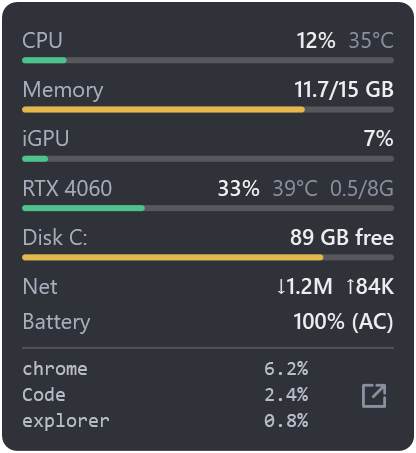
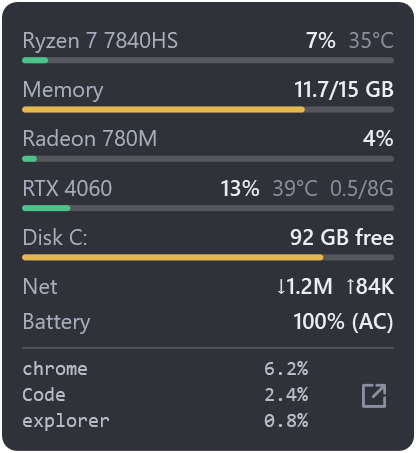
Show CPU/GPU model names, harden no-GPU case, add English README
- Label rows with short model names (e.g. Ryzen 7 7840HS, Radeon 780M, RTX 4060);
  full name on hover
- GPU module failing to load or no GPU present no longer affects other rows
- README: English section and refreshed screenshot

diff --git a/README.md b/README.md
@@ -1,14 +1,18 @@
 # MiniDash
 
-タスクマネージャーを開かなくても、画面の右下でPCの状態をひと目で確認できる、Windows用の小さなシステムモニターです。
+[日本語](#日本語) | [English](#english)
 
 ![MiniDash](docs/screenshot.png)
 
-## 表示される内容（2秒ごとに更新）
+## 日本語
 
-- **CPU**：使用率と温度（内蔵GPUがあるCPUの場合）
+タスクマネージャーを開かなくても、画面の右下でPCの状態をひと目で確認できる、Windows用の小さなシステムモニターです。
+
+### 表示される内容（2秒ごとに更新）
+
+- **CPU**：製品名、使用率、温度（内蔵GPUがあるCPUの場合）
 - **Memory**：使用量／搭載量
-- **GPU**：GPUごとの使用率、温度、専用メモリ（NVIDIA・AMD・Intel）
+- **GPU**：GPUごとの製品名、使用率、温度、専用メモリ（NVIDIA・AMD・Intel）。GPUが検出できないPCでは表示されません
 - **Disk**：システムドライブの空き容量
 - **Net**：下り／上りの通信速度
 - **Battery**：残量（ノートPCのみ）
@@ -16,7 +20,7 @@
 
 バーの色は使用率で変わります（60%未満は緑、85%未満は黄、それ以上は赤）。
 
-## インストール
+### インストール
 
 1. 右上の **Code → Download ZIP** でダウンロードします。
 2. ZIPファイルを右クリック →「プロパティ」→ 下の方の **「許可する」** にチェック → OK
@@ -29,7 +33,7 @@
 > 展開したフォルダは、インストール後も消したり移動したりしないでください。
 > 移動した場合は、移動先で `はじめに実行.cmd` をもう一度実行してください。
 
-## 操作
+### 操作
 
 | 操作 | 動作 |
 |---|---|
@@ -37,25 +41,81 @@
 | ランキング右のアイコン／ダブルクリック | タスクマネージャーを開く |
 | 右クリック | 右下に戻す・常に手前に表示の切り替え・閉じる |
 
-## アンインストール
+### アンインストール
 
 フォルダ内の **`アンインストール.cmd`** をダブルクリックすると、MiniDashを終了し、自動起動と設定を削除します。そのあとフォルダごと削除してください。
 
-## 動作環境
+### 動作環境
 
 - Windows 10 / 11
 - 追加のインストールは不要です（Windows標準のPowerShellと.NETだけで動きます）
 - 管理者権限は不要です
 
-## うまく動かないとき
+### うまく動かないとき
 
 `MiniDash_debug.cmd` を実行すると、エラーが画面に表示されます。エラーの記録は `%APPDATA%\MiniDash\error.log` にも残ります。
 
-## 温度について
+### 温度について
 
 - GPU温度は、タスクマネージャーと同じ仕組み（D3DKMT）で取得しています。
 - CPU温度は、CPUに内蔵されたGPUの温度を表示しています。CPUと同じチップのため、チップ全体のおおよその温度として使えます。CPUコアの正確な温度は、管理者権限で動く専用ドライバーが必要なため表示していません。内蔵GPUのないCPUでは、CPU温度は表示されません。
 
-## ライセンス
+## English
+
+A tiny always-on-top system monitor for Windows that sits in the bottom-right corner of your screen, so you can check your PC at a glance without opening Task Manager.
+
+### What it shows (updated every 2 seconds)
+
+- **CPU**: model name, usage, and temperature (on CPUs with integrated graphics)
+- **Memory**: used / installed
+- **GPU**: model name, usage, temperature, and dedicated memory for each GPU (NVIDIA, AMD, Intel). Hidden if no GPU is detected
+- **Disk**: free space on the system drive
+- **Net**: download / upload speed
+- **Battery**: charge level (laptops only)
+- **Top 3 apps by CPU usage** (processes with the same name are combined)
+
+Bar colors change with load: green below 60%, yellow below 85%, red above.
+
+### Install
+
+1. Click **Code → Download ZIP** at the top right of this page.
+2. Right-click the ZIP → **Properties** → check **Unblock** at the bottom → OK
+   (otherwise Windows may show a security warning when you run it).
+3. Extract the ZIP anywhere you like (e.g. Documents).
+4. Double-click **`はじめに実行.cmd`** ("run this first") in the extracted folder.
+
+MiniDash appears in the bottom-right corner and will start automatically every time you sign in.
+
+> Don't delete or move the extracted folder after installing.
+> If you do move it, run `はじめに実行.cmd` again from the new location.
+
+### Controls
+
+| Action | Result |
+|---|---|
+| Drag | Move it anywhere (the position is remembered) |
+| Icon next to the app ranking / double-click | Open Task Manager |
+| Right-click | Snap back to the corner, toggle always-on-top, close |
+
+### Uninstall
+
+Double-click **`アンインストール.cmd`** ("uninstall") in the folder. It stops MiniDash and removes auto-start and its settings. Then delete the folder.
+
+### Requirements
+
+- Windows 10 / 11
+- Nothing else to install: it runs on the PowerShell and .NET that come with Windows
+- No administrator rights needed
+
+### Troubleshooting
+
+Run `MiniDash_debug.cmd` to see any error on screen. Errors are also logged to `%APPDATA%\MiniDash\error.log`.
+
+### About temperatures
+
+- GPU temperature is read the same way Task Manager does it (D3DKMT).
+- CPU temperature comes from the integrated GPU, which sits on the same chip as the CPU, so it gives a good estimate of the chip temperature. Exact per-core temperatures need a kernel driver running with administrator rights, so MiniDash doesn't show them. On CPUs without integrated graphics, no CPU temperature is shown.
+
+## ライセンス / License
 
 MIT License
